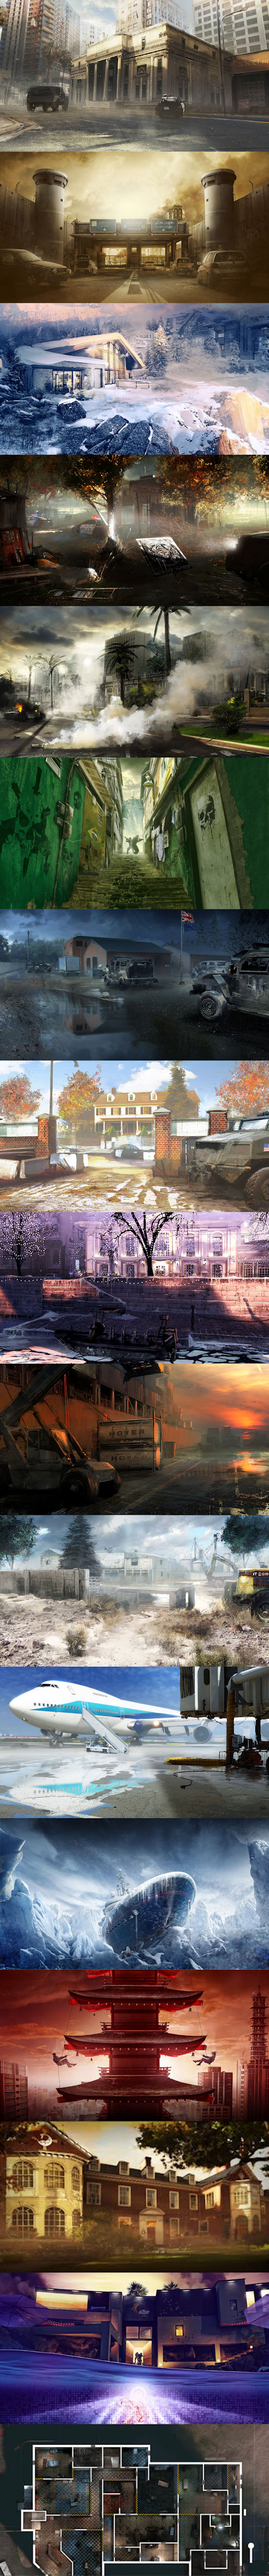
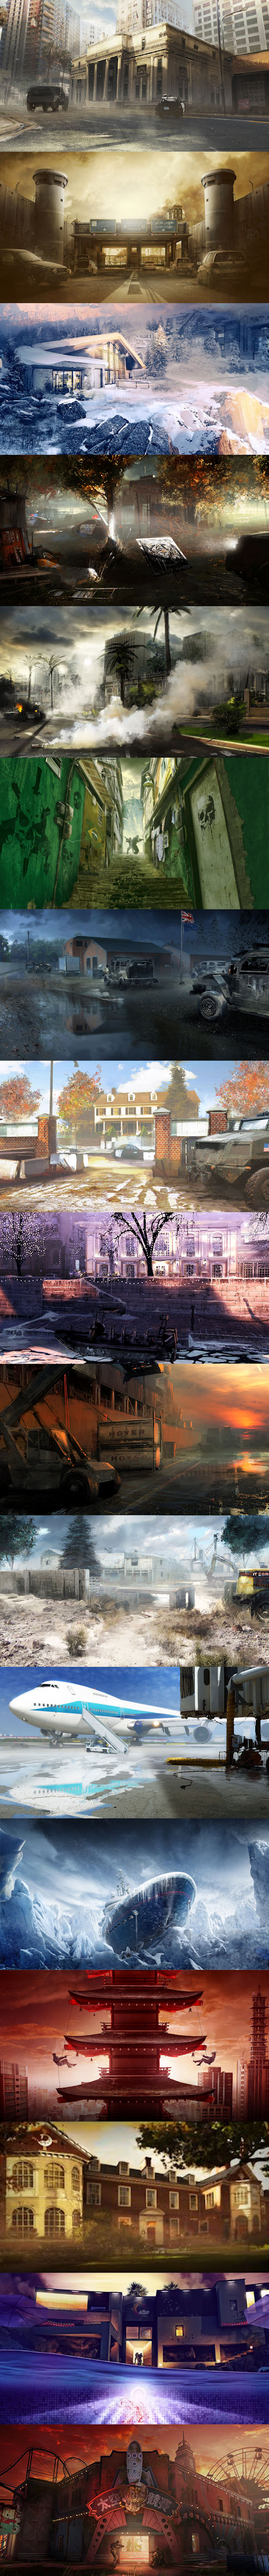
New map theme park

diff --git a/dev/js/main/main.map-data.js b/dev/js/main/main.map-data.js
@@ -2534,35 +2534,144 @@ var R6MMainData = (function(R6MLangTerms, undefined){
         ],
         floors: [
           { index: 1, top: -715, left: -1275, background: true, name: floorTerms.firstFloor, default: true },
-          { index: 2, top: -311, left: -88, name: floorTerms.secondFloor },
-          { index: 3, top: -311, left: -88, name: floorTerms.roof }
+          { index: 2, top: -430, left: -408, name: floorTerms.secondFloor },
+          { index: 3, top: -430, left: -408, name: floorTerms.roof }
         ],
-        hostageObjectives: [],
-        bombObjectives: [],
-        secureObjectives: [],
+        hostageObjectives: [
+          { floor: 2, top: -125, left: 307 },
+          { floor: 2, top: 109, left: -3 },
+          { floor: 1, top: -55, left: 25 },
+          { floor: 1, top: -77, left: -147 }
+        ],
+        bombObjectives: [
+          { floor: 2, top: -125, left: 270, set: 1, letter: objectiveTerms.bombShortA },
+          { floor: 2, top: 71, left: 299, set: 1, letter: objectiveTerms.bombShortB },
+          { floor: 2, top: -18, left: -63, set: 2, letter: objectiveTerms.bombShortA },
+          { floor: 2, top: 109, left: -40, set: 2, letter: objectiveTerms.bombShortB },
+          { floor: 1, top: -144, left: 318, set: 3, letter: objectiveTerms.bombShortA },
+          { floor: 1, top: -103, left: 192, set: 3, letter: objectiveTerms.bombShortB },
+          { floor: 1, top: -77, left: -184, set: 4, letter: objectiveTerms.bombShortA },
+          { floor: 1, top: -197, left: -152, set: 4, letter: objectiveTerms.bombShortB }
+        ],
+        secureObjectives: [
+          { floor: 2, top: -125, left: 344 },
+          { floor: 2, top: -18, left: -24 },
+          { floor: 1, top: -82, left: 227 },
+          { floor: 1, top: -77, left: -109 }
+        ],
         zoomPoints: {
-          topLeft: { top: -236, left: -37 },
-          bottomRight: { top: 199, left: 575 }
+          topLeft: { top: -344, left: -303 },
+          bottomRight: { top: 283, left: 533 }
         },
         compassPoints: {
-          top: 331, left: 220
+          top: 430, left: 594
         },
         ladders: [
         ],
-        cameras: [],
+        cameras: [
+          { floor: 1, top: 25, left: 291, id: 1, location: themeparkTerms.gallery },
+          { floor: 2, top: -36, left: 492, id: 2, location: themeparkTerms.hauntedStairs },
+          { floor: 1, top: 21, left: -28, id: 3, location: themeparkTerms.jointCorridor },
+          { floor: 2, top: 57, left: -232, id: 4, location: themeparkTerms.arcadeEntrance },
+          { floor: 1, otherFloor: 'up', top: 57, left: -232, id: 4, location: themeparkTerms.arcadeEntrance },
+          { floor: 2, top: 140, left: 208, id: 5, location: themeparkTerms.railPlatform },
+          { outdoor: true, top: -374, left: -336, id: 6, location: themeparkTerms.teacups },
+          { outdoor: true, top: -298, left: 571, id: 7, location: themeparkTerms.serviceEntry },
+          { outdoor: true, top: 301, left: -380, id: 8, location: themeparkTerms.guestInfo }
+        ],
         ceilingHatches: [
-          { floor: 1, top: -89, left: 65 },
-          { floor: 1, top: -66, left: 248 },
-          { floor: 1, top: -132, left: 522 },
-          { floor: 1, top: 47, left: 417 }
+          { floor: 1, top: -114, left: -176 },
+          { floor: 1, top: -79, left: 80 },
+          { floor: 1, top: 90, left: 332 },
+          { floor: 1, top: -181, left: 474 },
+          { floor: 2, top: -2, left: 28 },
+          { floor: 2 , top: -38, left: 444}
         ],
         skylights: [],
-        droneTunnels: [],
-        spawnPoints: [],
+        droneTunnels: [
+          { floor: 2, top: -137, left: -196, rotate: 0, size: DRONE_MED },
+          { floor: 2, top: 210, left: -27, rotate: 90, size: DRONE_SMALL },
+          { floor: 2, top: -172, left: 69, rotate: 90, size: DRONE_SMALL },
+          { floor: 2, top: 222, left: 388, rotate: 0, size: DRONE_MED },
+          { floor: 2, top: 78, left: 230, rotate: 90, size: DRONE_SMALL },
+          { floor: 2, top: -136, left: 230, rotate: 90, size: DRONE_SMALL },
+          { floor: 1, top: -11, left: -271, rotate: 90, size: 74 },
+          { floor: 1, top: -22, left: -239, rotate: 0, size: 34 },
+          { floor: 1, top: 40, left: -81, rotate: 0, size: DRONE_SMALL },
+          { floor: 1, top: 222, left: -81, rotate: 0, size: DRONE_MED },
+          { floor: 1, top: -200, left: 185, rotate: 0, size: DRONE_MED },
+          { floor: 1, top: -200, left: 385, rotate: 0, size: DRONE_MED },
+          { floor: 1, top: 158, left: 155, rotate: 0, size: DRONE_MED },
+          { floor: 1, top: -168, left: -47, rotate: 90, size: DRONE_SMALL },
+          { floor: 1, top: -15, left: 253, rotate: 0, size: DRONE_SMALL }
+        ],
+        spawnPoints: [
+          { letter: spawnTerms.a, top: 433, left: -740, description: themeparkTerms.mainEntrance },
+          { letter: spawnTerms.b, top: -638, left: -620, description: themeparkTerms.teacups },
+          { letter: spawnTerms.c, top: 111, left: 937, description: themeparkTerms.bumperCars }
+        ],
         roomLabels: [
-          { floor: 1, top: 10, left: 294, description: themeparkTerms.workInProgress, hardToRead: true },
-          { floor: 2, top: -248, left: 551, description: themeparkTerms.workInProgress, hardToRead: true },
-          { floor: 3, top: -21, left: 166, description: themeparkTerms.workInProgress, hardToRead: true }
+          { floor: 1, top: -130, left: -84, description: themeparkTerms.drugLab, hardToRead: true },
+          { floor: 1, top: -198, left: -208, description: themeparkTerms.drugStorage, hardToRead: true },
+          { floor: 1, top: 109, left: -200, description: themeparkTerms.arcadeEntrance, hardToRead: true },
+          { floor: 1, top: 108, left: -71, description: themeparkTerms.barrelRoom, hardToRead: true },
+          { floor: 1, top: 18, left: -106, description: themeparkTerms.jointCorridor, hardToRead: true },
+          { floor: 1, top: -159, left: -8, description: themeparkTerms.jointCorridor, hardToRead: true },
+          { floor: 1, top: -224, left: -60, description: themeparkTerms.arcadeToilet, hardToRead: true },
+          { floor: 1, top: -224, left: 112, description: themeparkTerms.lockerRoom, hardToRead: true },
+          { floor: 1, top: -224, left: 28, description: themeparkTerms.cafeStairs, hardToRead: true },
+          { floor: 2, top: -224, left: 32, description: themeparkTerms.cafeStairs, hardToRead: true },
+          { floor: 1, top: -101, left: 56, description: themeparkTerms.executionRoom, hardToRead: true },
+          { floor: 1, top: 50, left: 150, description: themeparkTerms.coffinRoom, hardToRead: true },
+          { floor: 1, top: -157, left: 213, description: themeparkTerms.hauntedDining, hardToRead: true },
+          { floor: 1, top: -45, left: 356, description: themeparkTerms.gargoyle, hardToRead: true },
+          { floor: 1, top: -149, left: 405, description: themeparkTerms.gargoyleStorage, hardToRead: true },
+          { floor: 1, top: 21, left: 420, description: themeparkTerms.crypt, hardToRead: true },
+          { floor: 1, top: 70, left: 308, description: themeparkTerms.gallery, hardToRead: true },
+          { floor: 1, top: -125, left: 472, description: themeparkTerms.loadingDeck, hardToRead: true, smaller: true },
+          { floor: 1, top: 144, left: 84, description: themeparkTerms.fuelStorage, hardToRead: true },
+          { floor: 1, top: 137, left: 200, description: themeparkTerms.propStorage, hardToRead: true },
+          { floor: 1, top: 211, left: 406, description: themeparkTerms.hauntedEntrance.removeBreakTags(), hardToRead: true },
+          { floor: 1, top: 73, left: 420, description: themeparkTerms.hauntedStairs, hardToRead: true },
+          { floor: 1, top: 24, left: -254, description: themeparkTerms.arcadeStairs, hardToRead: true },
+          { floor: 2, top: 24, left: -254, description: themeparkTerms.arcadeStairs, hardToRead: true },
+          { floor: 2, top: -52, left: -162, description: themeparkTerms.upperArcade, hardToRead: true },
+          { floor: 2, top: -100, left: 0, description: themeparkTerms.cafeCorridor, hardToRead: true },
+          { floor: 2, top: -190, left: -71, description: themeparkTerms.cafe, hardToRead: true },
+          { floor: 2, top: -46, left: -52, description: themeparkTerms.dayCare, hardToRead: true },
+          { floor: 2, top: 163, left: 10, description: themeparkTerms.bunk, hardToRead: true },
+          { floor: 2, top: 220, left: 153, description: themeparkTerms.liftCar, hardToRead: true, smaller: true },
+          { floor: 2, top: 192, left: -67, description: themeparkTerms.bunkToilet, hardToRead: true },
+          { floor: 2, top: 62, left: 101, description: themeparkTerms.railPlatform, hardToRead: true },
+          { floor: 2, top: 62, left: 202, description: themeparkTerms.railPlatform, hardToRead: true },
+          { floor: 2, top: -180, left: 101, description: themeparkTerms.railPlatform, hardToRead: true },
+          { floor: 2, top: -180, left: 202, description: themeparkTerms.railPlatform, hardToRead: true },
+          { floor: 2, top: -154, left: 301, description: themeparkTerms.office, hardToRead: true },
+          { floor: 2, top: -163, left: 398, description: themeparkTerms.officeToilet, hardToRead: true },
+          { floor: 2, top: -96, left: 472, description: themeparkTerms.cashStash, hardToRead: true },
+          { floor: 2, top: 59, left: 443, description: themeparkTerms.hauntedStairs, hardToRead: true },
+          { floor: 2, top: 154, left: 417, description: themeparkTerms.controlRoom, hardToRead: true },
+          { floor: 2, top: 120, left: 289, description: themeparkTerms.initiationRoom, hardToRead: true },
+          { floor: 2, top: -20, left: 293, description: themeparkTerms.railCorridor, hardToRead: true },
+          { floor: 2, top: 188, left: 303, description: themeparkTerms.southExit, hardToRead: true },
+          { floor: 2, top: -205, left: -225, description: themeparkTerms.cafeTerrace, hardToRead: true },
+          { floor: 2, top: 220, left: 501, description: themeparkTerms.hauntedBalcony, hardToRead: true },
+          { floor: 2, top: -329, left: 152, description: themeparkTerms.railOverlook, hardToRead: true, smaller: true },
+          { floor: 2, top: -321, left: -36, description: themeparkTerms.railRamp, hardToRead: true },
+          { floor: 3, top: -56, left: 362, description: themeparkTerms.hauntedRoof, hardToRead: true },
+          { floor: 3, top: -56, left: -54, description: themeparkTerms.arcadeRoof, hardToRead: true },
+          { outdoor: true, top: -111, left: -350, description: themeparkTerms.sweetShop, hardToRead: true },
+          { outdoor: true, top: 372, left: -13, description: themeparkTerms.palms, hardToRead: true },
+          { outdoor: true, top: 246, left: -300, description: themeparkTerms.guestInfo, hardToRead: true },
+          { outdoor: true, top: -41, left: -561, description: themeparkTerms.village, hardToRead: true },
+          { outdoor: true, top: -370, left: -460, description: themeparkTerms.teacups, hardToRead: true },
+          { outdoor: true, top: -391, left: -152, description: themeparkTerms.backAlley, hardToRead: true },
+          { outdoor: true, top: -303, left: 380, description: themeparkTerms.backAlley, hardToRead: true },
+          { outdoor: true, top: -206, left: 634, description: themeparkTerms.serviceEntry, hardToRead: true },
+          { outdoor: true, top: 207, left: 701, description: themeparkTerms.bumperCars, hardToRead: true },
+          { outdoor: true, top: 364, left: 430, description: themeparkTerms.hauntedEntrance, hardToRead: true },
+          { outdoor: true, top: 514, left: 430, description: themeparkTerms.roboCircuit, hardToRead: true },
+          { outdoor: true, top: 364, left: 222, description: themeparkTerms.hauntedShop, hardToRead: true }
         ]
       },
       yacht: {

diff --git a/dev/js/lang-terms/lang-terms.js b/dev/js/lang-terms/lang-terms.js
@@ -986,7 +986,60 @@ var R6MLangTerms = (function(undefined) {
           coveredWalkway: 'Covered<br/>Walkway'
         },
         themepark: {
-          workInProgress: 'This is a very early preview<br/>of the new Year 2 Season 3 Map<br/>WORK IN PROGRESS'
+          arcadeRoof: 'Arcade<br/>Roof',
+          arcadeEntrance: 'Arcade<br/>Entrance',
+          arcadeStairs: 'Arcade Stairs',
+          arcadeToilet: 'Arcade<br/>Toilet',
+          barrelRoom: 'Barrel<br/>Room',
+          backAlley: 'Back Alley',
+          bumperCars: 'Bumper<br/>Cars',
+          bunk: 'Bunk',
+          bunkToilet: 'Bunk Toilet',
+          cafe: 'Cafe',
+          cafeCorridor: 'Cafe Corridor',
+          cafeStairs: 'Cafe<br/>Stairs',
+          cafeTerrace: 'Cafe<br/>Terrace',
+          cashStash: 'Cash<br/>Stash',
+          coffinRoom: 'Coffin Room',
+          controlRoom: 'Control<br/>Room',
+          crypt: 'Crypt',
+          dayCare: 'Day Care',
+          drugLab: 'Drug<br/>Lab',
+          drugStorage: 'Drug<br/>Storage',
+          executionRoom: 'Execution Room',
+          fuelStorage: 'Fuel Storage',
+          gallery: 'Gallery',
+          gargoyle: 'Gargoyle',
+          gargoyleStorage: 'Gargoyle<br/>Storage',
+          guestInfo: 'Guest<br/>Info',
+          hauntedBalcony: 'Haunted<br/>Balcony',
+          hauntedDining: 'Haunted<br/>Dining',
+          hauntedEntrance: 'Haunted<br/>Entrance',
+          hauntedRoof: 'Haunted<br/>Roof',
+          hauntedShop: 'Haunted<br/>Shop',
+          hauntedStairs: 'Haunted<br/>Stairs',
+          initiationRoom: 'Initiation<br/>Room',
+          jointCorridor: 'Joint<br/>Corridor',
+          liftCar: 'Lift<br/>Car',
+          loadingDeck: 'Loading<br/>Deck',
+          lockerRoom: 'Locker<br/>Room',
+          mainEntrance: 'Main Entrance',
+          office: 'Office',
+          officeToilet: 'Office<br/>Toilet',
+          palms: 'Palms',
+          propStorage: 'Prop Storage',
+          railOverlook: 'Rail<br/>Overlook',
+          railCorridor: 'Rail Corridor',
+          railPlatform: 'Rail<br/>Platform',
+          railRamp: 'Rail Ramp',
+          roboCircuit: 'Robot Circuit',
+          serviceCorridor: 'Service Corridor',
+          serviceEntry: 'Service<br/>Entry',
+          southExit: 'South<br/>Exit',
+          sweetShop: 'Sweet Shop',
+          teacups: 'Teacups',
+          upperArcade: 'Upper<br/>Arcade',
+          village: 'Village'
         },
         yacht: {
           spawnSubmarine: 'Submarine',
